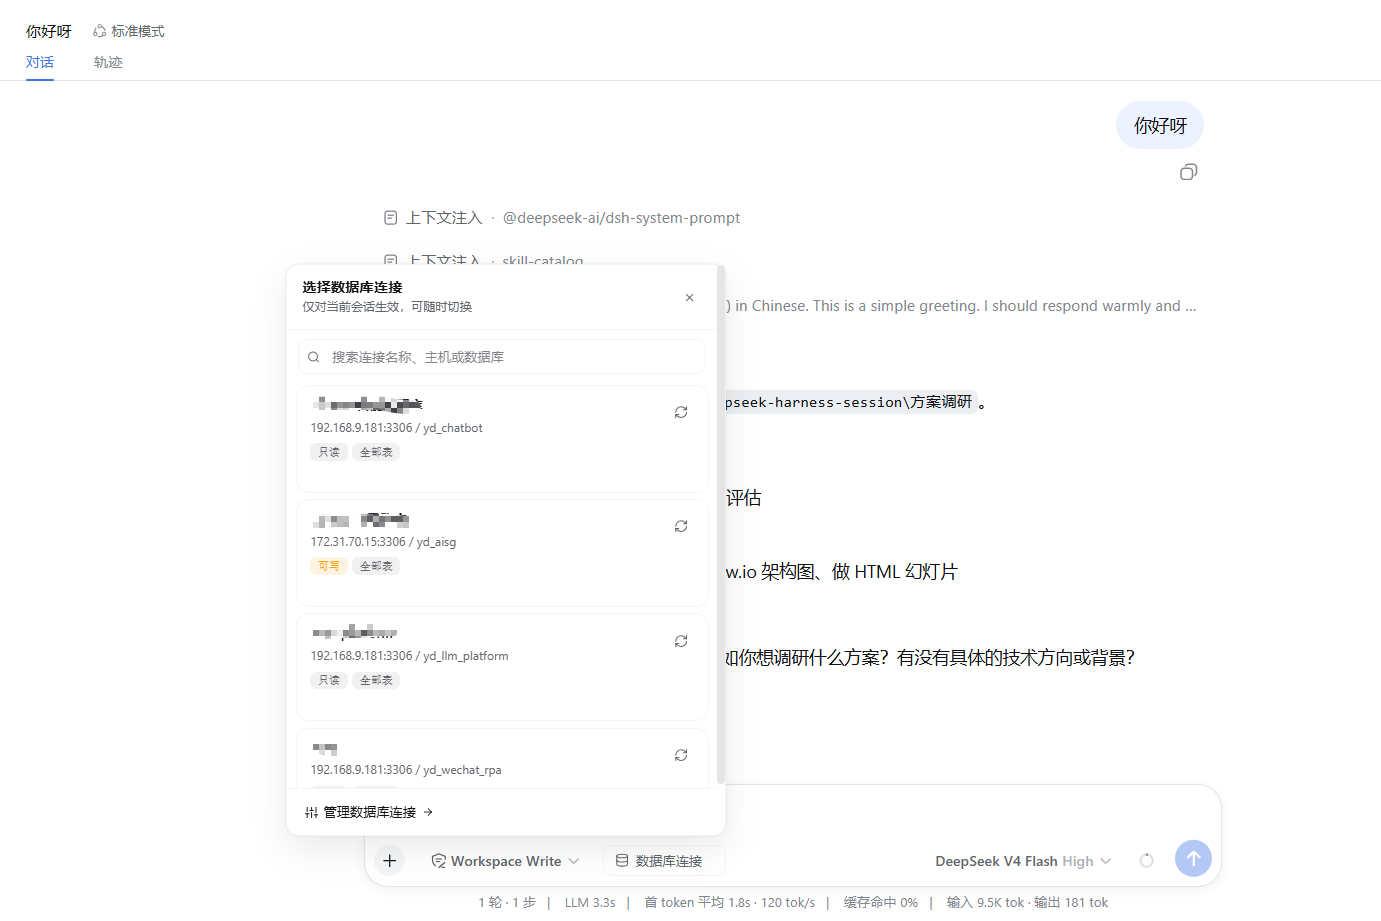
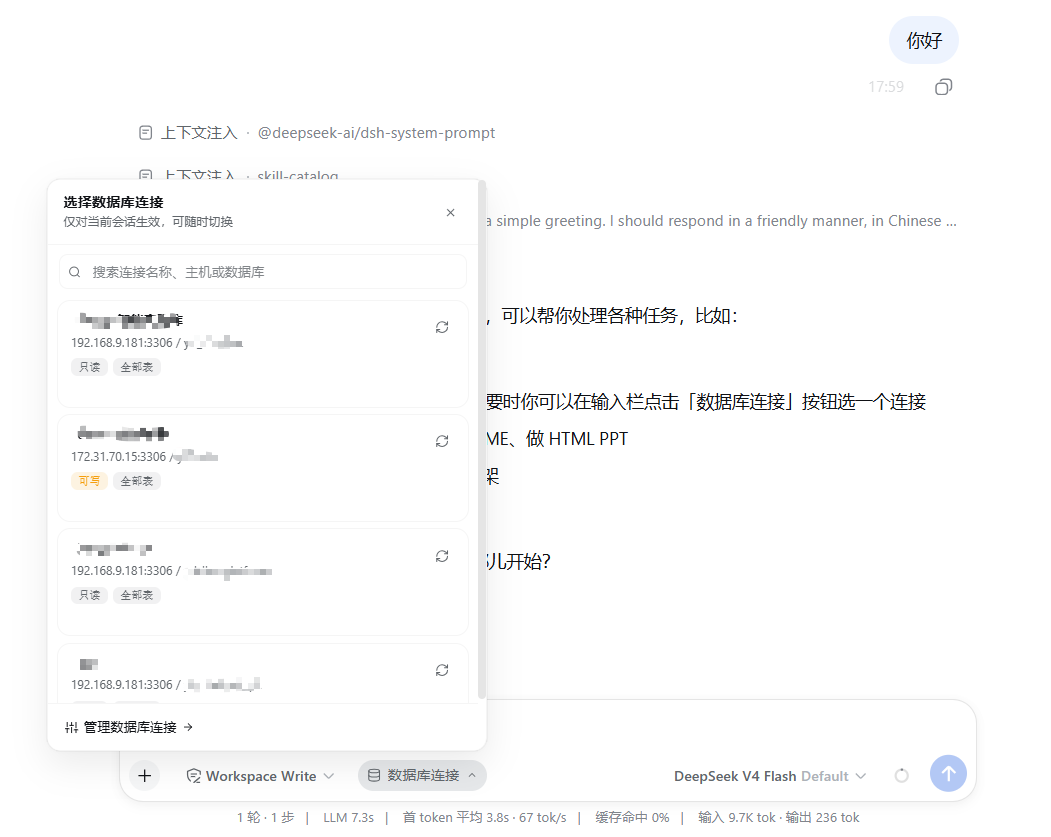
feat: refine MySQL plugin UI and screenshots

diff --git a/lib/client.js b/lib/client.js
@@ -57,50 +57,67 @@ window.__ModuleLoader__.load({
       .dsh-mysql-root {
         display:inline-flex; align-items:center; gap:4px; position:relative;
         min-width:0; flex:0 1 auto;
+        border-radius:24px;
+        transition:background-color .18s ease, box-shadow .18s ease;
+      }
+      .dsh-mysql-root:hover:not(.is-disabled),
+      .dsh-mysql-root.is-expanded:not(.is-disabled) {
+        background:var(--dsw-alias-interactive-bg-hover);
       }
       .dsh-mysql-btn {
         display:inline-flex; align-items:center; gap:6px;
-        height:28px; padding:0 10px; font-size:12px; line-height:1; font-family:inherit;
+        height:28px; padding:0 8px; font-size:13px; line-height:1; font-family:inherit;
         max-width:160px; min-width:112px; box-sizing:border-box;
         color:var(--dsw-alias-label-primary);
-        border:1px solid var(--dsw-alias-border-l1); border-radius:var(--dm-r-sm); cursor:pointer;
-        background:var(--dsw-alias-bg-input, transparent);
-        transition:background-color .18s ease, border-color .18s ease, color .18s ease;
+        border:0; border-radius:24px; cursor:pointer;
+        background:transparent;
+        transition:background-color .18s ease, color .18s ease, box-shadow .18s ease;
       }
       .dsh-mysql-btn-icon { flex:none; display:inline-flex; color:var(--dsw-alias-label-secondary); }
       .dsh-mysql-btn-label {
         flex:1 1 auto; min-width:0; overflow:hidden; text-overflow:ellipsis;
         white-space:nowrap; text-align:left;
       }
-      .dsh-mysql-btn-caret { flex:none; display:inline-flex; color:var(--dsw-alias-label-secondary); }
+      .dsh-mysql-btn-caret {
+        flex:none; display:inline-flex; color:var(--dsw-alias-label-secondary);
+        transition:transform .15s ease;
+      }
+      .dsh-mysql-btn.is-expanded .dsh-mysql-btn-caret { transform:rotate(180deg); }
       .dsh-mysql-btn.is-on {
-        /* 已连接：无边框 + 极浅品牌色底，状态靠绿点/▾ 与图标表达 */
-        background:var(--dm-on-bg);
+        /* 已连接：无边框 + 透明底，状态靠绿点/▾ 与图标表达 */
+        background:transparent;
         border-color:transparent;
         color:var(--dsw-alias-label-primary);
         font-weight:600;
       }
       .dsh-mysql-btn.is-on .dsh-mysql-btn-icon,
       .dsh-mysql-btn.is-on .dsh-mysql-btn-caret { color:var(--dm-accent, var(--dsw-alias-brand-primary)); }
-      .dsh-mysql-btn.is-on:hover:not(:disabled) { border-color:transparent; background:var(--dm-accent-soft); }
       .dsh-mysql-btn.is-off { color:var(--dsw-alias-label-secondary); font-weight:500; }
       .dsh-mysql-btn.is-warn {
         background:var(--dm-soft-danger);
-        border-color:color-mix(in srgb, var(--dm-danger) 45%, var(--dsw-alias-border-l1));
+        border-color:transparent;
         color:var(--dm-danger); font-weight:600;
       }
       .dsh-mysql-btn.is-warn .dsh-mysql-btn-icon { color:var(--dm-danger); }
       @supports not (background: color-mix(in srgb, red 50%, blue 50%)) {
-        .dsh-mysql-btn.is-warn { background:var(--dsw-alias-bg-input, transparent); border-color:var(--dm-danger); }
+        .dsh-mysql-btn.is-warn { background:var(--dsw-alias-bg-input, transparent); border-color:transparent; }
       }
       .dsh-mysql-btn .dsh-mysql-dot {
         flex:none; width:6px; height:6px; border-radius:50%;
         background:var(--dm-ok); box-shadow:0 0 0 3px var(--dm-soft-ok);
       }
-      .dsh-mysql-btn:hover:not(:disabled) { border-color:var(--dm-accent, var(--dsw-alias-brand-primary)); }
-      .dsh-mysql-btn:active:not(:disabled) { transform:scale(.98); }
+      .dsh-mysql-btn:hover:not(:disabled),
+      .dsh-mysql-btn.is-expanded:not(:disabled),
+      .dsh-mysql-btn[aria-expanded="true"]:not(:disabled) {
+        border-color:transparent;
+        background:var(--dsw-alias-interactive-bg-hover);
+      }
+      .dsh-mysql-btn:active:not(:disabled) { transform:none; }
       .dsh-mysql-btn:disabled { opacity:.45; cursor:not-allowed; }
-      .dsh-mysql-btn:focus-visible { outline:2px solid var(--dm-accent); outline-offset:2px; }
+      .dsh-mysql-btn:focus-visible {
+        outline:0;
+        box-shadow:0 0 0 2px var(--dsw-alias-border-l3, var(--dm-accent));
+      }
 
       .dsh-mysql-spinner {
         flex:none; width:12px; height:12px; box-sizing:border-box;
@@ -297,7 +314,7 @@ window.__ModuleLoader__.load({
         height:28px; padding:0 12px; font-size:12px; line-height:1; cursor:pointer;
         border-radius:var(--dm-r-sm); border:1px solid var(--dsw-alias-border-l1);
         background:transparent; color:var(--dsw-alias-label-primary); display:inline-flex; align-items:center; gap:5px;
-        transition:all .15s ease;
+        transition:background-color .15s ease, border-color .15s ease, color .15s ease, box-shadow .15s ease, transform .15s ease;
       }
       .dsh-mysql-btn2:hover:not(:disabled) { border-color:var(--dm-accent, var(--dsw-alias-brand-primary)); color:var(--dm-accent, var(--dsw-alias-brand-primary)); }
       .dsh-mysql-btn2.primary {
@@ -305,15 +322,44 @@ window.__ModuleLoader__.load({
         border-color:var(--dm-accent, var(--dsw-alias-brand-primary)); color:#fff;
       }
       .dsh-mysql-btn2.primary:hover:not(:disabled) { color:#fff; opacity:.92; }
-      .dsh-mysql-btn2.accent {
-        border-color:var(--dm-accent, var(--dsw-alias-brand-primary));
-        color:var(--dm-accent, var(--dsw-alias-brand-primary)); background:var(--dm-accent-soft);
-        font-weight:600;
+      /* 页面级主要动作：保持可发现，但避免深色填充表面。 */
+      .dsh-mysql-btn2.outline {
+        border-color:var(--dsw-alias-border-l1);
+        border-radius:14px;
+        color:var(--dsw-alias-label-primary);
+        background:transparent;
+        font-weight:500;
       }
-      .dsh-mysql-btn2.accent:hover:not(:disabled) { opacity:.9; }
+      .dsh-mysql-btn2.outline:hover:not(:disabled) {
+        border-color:var(--dsw-alias-border-l2, var(--dsw-alias-border-l1));
+        color:var(--dsw-alias-label-primary);
+        background:var(--dsw-alias-interactive-bg-hover);
+      }
+      .dsh-mysql-btn2.outline:active:not(:disabled) {
+        background:var(--dsw-alias-interactive-bg-active, var(--dsw-alias-interactive-bg-hover));
+      }
+      /* 卡片级辅助动作：默认无边框，悬浮时仅显示轻量交互表面。 */
+      .dsh-mysql-btn2.quiet {
+        border-color:transparent;
+        border-radius:14px;
+        color:var(--dsw-alias-label-secondary);
+        background:transparent;
+        font-weight:400;
+      }
+      .dsh-mysql-btn2.quiet:hover:not(:disabled) {
+        border-color:transparent;
+        color:var(--dsw-alias-label-primary);
+        background:var(--dsw-alias-interactive-bg-hover);
+      }
+      .dsh-mysql-btn2.quiet:active:not(:disabled) {
+        background:var(--dsw-alias-interactive-bg-active, var(--dsw-alias-interactive-bg-hover));
+      }
       .dsh-mysql-btn2:disabled { opacity:.45; cursor:not-allowed; }
       .dsh-mysql-btn2:active:not(:disabled) { transform:scale(.98); }
-      .dsh-mysql-btn2:focus-visible { outline:2px solid var(--dm-accent, var(--dsw-alias-brand-primary)); outline-offset:2px; }
+      .dsh-mysql-btn2:focus-visible {
+        outline:2px solid var(--dsw-alias-border-l3, var(--dm-accent, var(--dsw-alias-brand-primary)));
+        outline-offset:2px;
+      }
 
       .dsh-mysql-btn-text {
         height:26px; padding:0 8px; font-size:12px; line-height:1; cursor:pointer;
@@ -874,14 +920,17 @@ window.__ModuleLoader__.load({
           return chars.length > 6 ? chars.slice(0, 6).join('') + '…' : chars.join('')
         }
         const label = current ? shortName(current.name) : '数据库连接'
-        const btnCls = 'dsh-mysql-btn' + (error !== null ? ' is-warn' : (current !== null ? ' is-on' : ' is-off'))
+        const btnCls = 'dsh-mysql-btn' + (error !== null ? ' is-warn' : (current !== null ? ' is-on' : ' is-off')) + (open ? ' is-expanded' : '')
         const title = current
           ? '当前连接：' + current.name + '（' + current.host + ':' + current.port + '/' + (current.database || '未指定默认库') + '）· ' + (current.allowWrite ? '可写' : '只读') + '。点击切换'
           : '选择当前会话使用的 MySQL 数据库连接'
 
         return React.createElement(
           'span',
-          { className: 'dsh-mysql-root' },
+          {
+             className: 'dsh-mysql-root' + (open ? ' is-expanded' : '') + (busy ? ' is-disabled' : ''),
+             style: open && !busy ? { background: 'var(--dsw-alias-interactive-bg-hover)' } : undefined,
+           },
           React.createElement(
             'button', {
               type: 'button',
@@ -903,9 +952,7 @@ window.__ModuleLoader__.load({
               ? React.createElement('span', { className: 'dsh-mysql-dot' })
               : null,
             React.createElement('span', { className: 'dsh-mysql-btn-label' }, label),
-            current !== null && error === null
-              ? React.createElement('span', { className: 'dsh-mysql-btn-caret' }, IconChevronDown({ size: 11 }))
-              : null,
+            React.createElement('span', { className: 'dsh-mysql-btn-caret', 'aria-hidden': true }, IconChevronDown({ size: 11 })),
           ),
           toast ? React.createElement('div', { className: 'dsh-mysql-toast ' + toast.kind, role: 'status', 'aria-live': 'polite' },
             React.createElement('span', { className: 'dsh-mysql-toast-icon' },
@@ -1230,7 +1277,7 @@ window.__ModuleLoader__.load({
             ),
             React.createElement('button', {
               type: 'button',
-              className: 'dsh-mysql-btn2 accent',
+              className: 'dsh-mysql-btn2 outline',
               disabled: busy || draft !== null,
               onClick: startAdd,
             }, IconPlus({ size: 13 }), ' 添加连接'),
@@ -1283,8 +1330,8 @@ window.__ModuleLoader__.load({
                 'div', { className: 'dsh-mysql-card-actions' },
                 React.createElement('button', {
                   type: 'button',
-                  className: 'dsh-mysql-btn2 accent',
-                  disabled: busy || testingId === c.id,
+                  className: 'dsh-mysql-btn2 quiet',
+                  disabled: busy || draft !== null || testingId === c.id,
                   onClick: () => testSaved(c),
                 },
                   testingId === c.id ? React.createElement('span', { className: 'dsh-mysql-spinner' }) : null,
@@ -1485,7 +1532,7 @@ window.__ModuleLoader__.load({
               React.createElement(
                 'div', { className: 'dsh-mysql-form-footer' },
                 React.createElement('button', { type: 'button', className: 'dsh-mysql-btn2 primary', disabled: busy, onClick: save }, busy ? '保存中…' : '保存连接'),
-                React.createElement('button', { type: 'button', className: 'dsh-mysql-btn2', disabled: busy, onClick: test }, busy ? '测试中…' : '测试连接'),
+                React.createElement('button', { type: 'button', className: 'dsh-mysql-btn2 quiet', disabled: busy, onClick: test }, busy ? '测试中…' : '测试连接'),
                 React.createElement('button', { type: 'button', className: 'dsh-mysql-btn2', disabled: busy, onClick: cancel }, '取消'),
               ),
             ),

diff --git a/README.md b/README.md
@@ -62,7 +62,7 @@ Use mysql_tables to inspect the available schema first, then use mysql_query to 
 ### Install from GitHub
 
 ```powershell
-dsh plugin --profile web add github:1321928757/dsh-mysql#v0.1.10
+dsh plugin --profile web add github:1321928757/dsh-mysql#v0.1.11
 ```
 
 ### Install from npm
@@ -78,7 +78,7 @@ dsh plugin --profile web add dsh-mysql
 The repository also provides a Windows installer that checks for `dsh`, prepares a pinned pnpm helper under `%USERPROFILE%\.dsh-tmp`, and installs the selected GitHub tag into the `web` profile:
 
 ```powershell
-irm https://raw.githubusercontent.com/1321928757/dsh-mysql/v0.1.10/scripts/install.ps1 | iex
+irm https://raw.githubusercontent.com/1321928757/dsh-mysql/v0.1.11/scripts/install.ps1 | iex
 ```
 
 After installation, restart `dsh web`. Then open **Settings → MySQL 数据库**, add and test a connection, and select it from the database button beside the composer.
@@ -121,37 +121,35 @@ dsh --profile demo --dump-config
 
 ## Screenshots
 
+The screenshots below were captured from the real DSH Web shell with the plugin loaded. Connection names and account names in the settings example are illustrative; passwords are not shown.
+
 ### Configure a connection
 
-The settings page groups connection details, database scope, and permissions. Read-only is the default.
+The settings page groups connection details, database scope, and permissions. Read-only is the default. The add-connection form keeps **保存连接** as the primary action, while **测试连接** remains a quieter secondary action.
 
 ![MySQL settings page](https://raw.githubusercontent.com/1321928757/dsh-mysql/main/assets/settings.png)
 
+The form can be opened below the saved connection cards without leaving the settings page:
+
+![Add MySQL connection form](https://raw.githubusercontent.com/1321928757/dsh-mysql/main/assets/settings-add-form.png)
+
 ### Select a connection for a session
 
-The composer shows the database control even before a connection is selected:
+The composer shows the database control even before a connection is selected. Its arrow points down while the picker is closed:
 
 ![Composer without a selected database connection](https://raw.githubusercontent.com/1321928757/dsh-mysql/main/assets/conversation-no-connection.png)
 
-Click it to search and choose from the configured connections:
+Click it to search and choose from the configured connections. The arrow points up while the list is expanded:
 
 ![Per-session database connection picker](https://raw.githubusercontent.com/1321928757/dsh-mysql/main/assets/conversation-picker.png)
 
-After selection, the connection name and status appear in the composer:
+After a connection is selected, its name, green status dot, and down arrow appear in the composer. The selected connection is also included in the conversation context shown to the agent:
 
-![Composer with a selected database connection](https://raw.githubusercontent.com/1321928757/dsh-mysql/main/assets/conversation-connected.png)
+![Selected connection in conversation context](https://raw.githubusercontent.com/1321928757/dsh-mysql/main/assets/conversation-context.png)
 
-### See the selected connection in context
+After the agent runs a read-only query, the tool result is displayed in the conversation:
 
-The selected connection and readable table scope are appended as a dynamic context section for the current turn:
-
-![Dynamic database context injected into the prompt](https://raw.githubusercontent.com/1321928757/dsh-mysql/main/assets/conversation-context.png)
-
-### Let the agent inspect and query
-
-The agent can inspect the schema first and then query the selected database:
-
-![Agent querying MySQL in a conversation](https://raw.githubusercontent.com/1321928757/dsh-mysql/main/assets/conversation-query.png)
+![MySQL query result](https://raw.githubusercontent.com/1321928757/dsh-mysql/main/assets/conversation-query.png)
 
 ## Security and permissions
 

diff --git a/README.zh-CN.md b/README.zh-CN.md
@@ -62,7 +62,7 @@
 ### 从 GitHub 安装
 
 ```powershell
-dsh plugin --profile web add github:1321928757/dsh-mysql#v0.1.10
+dsh plugin --profile web add github:1321928757/dsh-mysql#v0.1.11
 ```
 
 ### 从 npm 安装
@@ -78,7 +78,7 @@ dsh plugin --profile web add dsh-mysql
 仓库提供 Windows 安装脚本：它会检查 `dsh` 是否在 PATH 中，在 `%USERPROFILE%\.dsh-tmp` 下准备固定版本的 pnpm 辅助程序，并把指定 GitHub 版本安装到 `web` profile：
 
 ```powershell
-irm https://raw.githubusercontent.com/1321928757/dsh-mysql/v0.1.10/scripts/install.ps1 | iex
+irm https://raw.githubusercontent.com/1321928757/dsh-mysql/v0.1.11/scripts/install.ps1 | iex
 ```
 
 安装完成后重启 `dsh web`，再打开 **设置 → MySQL 数据库** 添加并测试连接，最后通过输入栏旁的数据库按钮选择连接。
@@ -121,37 +121,35 @@ dsh --profile demo --dump-config
 
 ## 截图
 
+以下截图均来自已加载插件的真实 DSH Web 页面。设置页中的连接名称和账号名称为示例值，截图不会展示密码。
+
 ### 配置数据库连接
 
-设置页将连接信息、数据库范围和权限分组展示，默认是只读模式。
+设置页将连接信息、数据库范围和权限分组展示，默认是只读模式。添加连接表单将 **保存连接** 作为主要操作，而 **测试连接** 使用更低调的次要按钮样式。
 
 ![MySQL 设置页](https://raw.githubusercontent.com/1321928757/dsh-mysql/main/assets/settings.png)
 
+表单会在已保存连接卡片下方展开，不需要离开设置页：
+
+![添加 MySQL 连接表单](https://raw.githubusercontent.com/1321928757/dsh-mysql/main/assets/settings-add-form.png)
+
 ### 为会话选择连接
 
-即使尚未选择连接，输入栏也会显示数据库控制按钮：
+即使尚未选择连接，输入栏也会显示数据库控制按钮；列表收起时，文字右侧显示向下箭头：
 
 ![未选择数据库连接的对话输入栏](https://raw.githubusercontent.com/1321928757/dsh-mysql/main/assets/conversation-no-connection.png)
 
-点击按钮后，可以搜索并从已配置的连接中选择：
+点击按钮后，可以搜索并从已配置的连接中选择；列表展开时箭头会切换为向上箭头：
 
 ![会话级数据库连接选择器](https://raw.githubusercontent.com/1321928757/dsh-mysql/main/assets/conversation-picker.png)
 
-选择后，输入栏会显示连接名称与状态：
+选择连接后，输入栏会显示连接名称、绿色连接状态点和向下箭头；选中的连接还会出现在发送给 Agent 的会话上下文中：
 
-![已选择数据库连接的对话输入栏](https://raw.githubusercontent.com/1321928757/dsh-mysql/main/assets/conversation-connected.png)
+![会话上下文中的已选连接](https://raw.githubusercontent.com/1321928757/dsh-mysql/main/assets/conversation-context.png)
 
-### 查看运行时上下文
+Agent 执行只读查询后，工具结果会显示在对话中：
 
-当前连接与可读表范围会作为动态上下文追加到本轮对话：
-
-![动态注入 Prompt 的数据库上下文](https://raw.githubusercontent.com/1321928757/dsh-mysql/main/assets/conversation-context.png)
-
-### 让 Agent 查看并查询数据库
-
-Agent 可以先查看表结构，再查询当前选中的数据库：
-
-![Agent 在会话中查询 MySQL](https://raw.githubusercontent.com/1321928757/dsh-mysql/main/assets/conversation-query.png)
+![MySQL 查询结果](https://raw.githubusercontent.com/1321928757/dsh-mysql/main/assets/conversation-query.png)
 
 ## 安全与权限
 

diff --git a/CHANGELOG.md b/CHANGELOG.md
@@ -1,5 +1,10 @@
 # Changelog
 
+## v0.1.11
+
+- 对齐 DSH Web 输入栏与设置页的交互样式，收敛按钮层级、悬浮态、展开态和焦点态。
+- 更新真实界面截图，统一使用 ASCII 文件名，并同步 README 与 `screenshots.json`。
+
 ## v0.1.10
 
 - 修复 `mysql_query` 返回日期/时间字段的时区偏移：连接池启用 `dateStrings: true`，原样返回 MySQL 的日期/时间字符串，不再按本机时区转 `Date` 后再 `toISOString()` 成 UTC。
